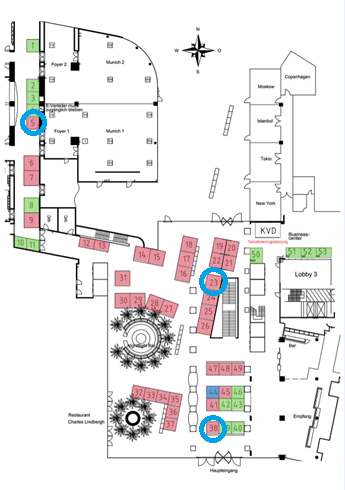
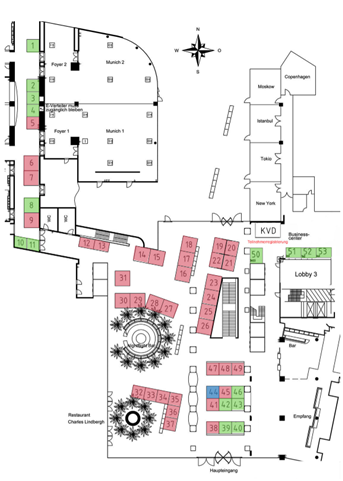
'new'

diff --git a/public/js/admin.js b/public/js/admin.js
@@ -115,11 +115,11 @@ $(document).ready(function () {
                 if (data.message) {
                     checkOrders();
                 } else {
-                    alert("Something went wrong.");
+                    // alert("Something went wrong.");
                 }
             },
             error: function () {
-                alert("Action could not be performed.");
+                // alert("Action could not be performed.");
             }
         });
     }

diff --git a/resources/views/pages/order.blade.php b/resources/views/pages/order.blade.php
@@ -13,7 +13,7 @@
     @endif
 
     <!-- First Step -->
-        <div class="row orderStep" id="step-1">
+        <div class="row" id="step-1">
             <div class="col-md-12">
                 <p class="font-weight-bold">Herzlich wilkommen zur Bestellung für Popcorn der smarten Popcornmaschine.
                     Bitte geben Sie zur Bestellung des kostenlosen Popcorns am Messestand des FIR folgende Informationen
@@ -30,24 +30,24 @@
                         <div class="dropdown-menu">
                             <a class="dropdown-item country-code" id="Germany" value="+49" style="cursor:pointer">
                                 <img src="{{ URL::asset('images/Germany.jpg') }}" alt="" style="width:30px">
-                                +49 Germany
+                                +49 Deutschland
                             </a>
                             <a class="dropdown-item country-code" id="UK" value="+44" style="cursor:pointer">
                                 <img src="{{ URL::asset('images/United Kingdom.png') }}" alt="" style="width:30px">
-                                +44 United Kingdom
+                                +44 England
                             </a>
                             <a class="dropdown-item country-code" id="France" value="+33" style="cursor:pointer">
                                 <img src="{{ URL::asset('images/France.png') }}" alt="" style="width:30px">
-                                +33 France
+                                +33 Frankreich
                             </a>
                             <a class="dropdown-item country-code" id="Belgium" value="+32" style="cursor:pointer">
                                 <img src="{{ URL::asset('images/Belgium.png') }}" alt="" style="width:30px">
-                                +32 Belgium
+                                +32 Belgien
                             </a>
                             <a class="dropdown-item country-code" id="Netherlands" value="+31"
                                style="cursor:pointer">
                                 <img src="{{ URL::asset('images/Netherlands.png') }}" alt="" style="width:30px">
-                                +31 Netherlands
+                                +31 Niderlande
                             </a>
                             <a class="dropdown-item country-code" id="USA" value="+1" style="cursor:pointer">
                                 <img src="{{ URL::asset('images/USA.png') }}" alt="" style="width:30px">
@@ -91,9 +91,9 @@
         <!-- Second Step -->
         <div class="row d-none" id="step-2">
             <div class="col-md-12">
-                <h2 class="font-weight-bold pl-0 my-4 font-fir">Abholung</h2>
-                <h4 class="font-fir">Prognostizierte Fertigstellungszeit: <span id="ETA"></span> Uhr</h4>
-                <img src="{{ URL::asset('images/map.png') }}" alt="" style="width:350px">
+                <h4 class="font-fir">Prognostizierte Fertigstellungszeit:</h4>
+                <h4 class="font-fir"><span id="ETA"></span> Uhr</h4>
+                <img src="{{ URL::asset('images/map.png') }}" alt="" style="width:300px">
             </div>
         </div>
 

diff --git a/resources/views/pages/stats.blade.php b/resources/views/pages/stats.blade.php
@@ -7,16 +7,27 @@
     </div>
     <h4 class="text-center font-fir mt-2">Text text</h4>
     <div class="text-center">
-        <div class="mx-auto mt-3 d-inline-block" style="width:600px;height:350px;position:relative;border: 2px solid #0067a4;">
+        <div class="mx-auto mt-3 d-inline-block"
+             style="width:600px;height:350px;position:relative;border: 2px solid #0067a4;">
             <canvas id="canvas2" width="600" height="350"></canvas>
         </div>
 
-        <div class="mx-auto mt-3 d-inline-block" style="width:600px;height:350px;position:relative;border: 2px solid #0067a4;">
+        <div class="mx-auto mt-3 d-inline-block"
+             style="width:600px;height:350px;position:relative;border: 2px solid #0067a4;">
             <canvas id="canvas3" width="600" height="350"></canvas>
         </div>
 
-        <div class="mx-auto mt-3 d-inline-block" style="width:600px;height:350px;position:relative;border: 2px solid #0067a4;">
+        <div class="mx-auto mt-3 d-inline-block"
+             style="width:600px;height:350px;position:relative;border: 2px solid #0067a4;">
             <canvas id="canvas4" width="600" height="350"></canvas>
         </div>
     </div>
+@endsection
+
+@section('includes')
+    <script>
+        setInterval(function () {
+            window.location = 'http://localhost/digpopcorn/public/dashboard';
+        }, 30000);
+    </script>
 @endsection

diff --git a/app/Http/Controllers/OrdersController.php b/app/Http/Controllers/OrdersController.php
@@ -8,6 +8,7 @@ use App\Order;
 use Carbon\Carbon;
 use Illuminate\Support\Facades\Mail;
 use Faker\Provider\DateTime;
+use App\Helpers\CustomHelpers;
 
 class OrdersController extends Controller {
 
@@ -71,17 +72,20 @@ class OrdersController extends Controller {
         $order->email = $email;
         $order->company = $company;
 
-        $orders = Order::where('status', 'RECEIVED')->get();
+        $orders = Order::whereDate('created_at', Carbon::today())->where('status', 'RECEIVED')->orderBy('created_at', 'desc')->take(15)->get();
 
         if (sizeof($orders) > 10) {
-            $seconds = 0;
+            $minutes = 0;
             $i = 0;
             foreach ($orders as $ord) {
-                $diff = strtotime($ord->updated_at) - strtotime($ord->created_at);
-                $seconds += $diff;
+                $diff = CustomHelpers::timeToMinutes($ord->ready_at) - CustomHelpers::timeToMinutes($ord->ordered_at);
+                if ($diff > 15) {
+                    continue;
+                }
+                $minutes += $diff;
                 $i++;
             }
-            $order->ETA = date('H:i', strtotime('now +' . (floor($seconds / $i)) . ' seconds'));
+            $order->ETA = date('H:i', strtotime('now +' . (floor($minutes / $i)) . ' minutes'));
         } else {
             $order->ETA = date('H:i', strtotime('now +3 minutes'));
         }

diff --git a/resources/views/inc/navbar-main.blade.php b/resources/views/inc/navbar-main.blade.php
@@ -3,17 +3,11 @@
         <button class="navbar-toggler" type="button" data-toggle="collapse" data-target="#navbarNavDropdown" aria-controls="navbarNavDropdown   " aria-expanded="false" aria-label="Toggle navigation">
             <span class="navbar-toggler-icon"></span>
         </button>
-        <a class="navbar-brand" href="{{ url('/') }}">Digitale Popcornmachine</a>
+        <a class="navbar-brand" href="{{ url('/') }}"><img src="{{ URL::asset('images/logo.png') }}" alt="" style="width:150px"></a>
         <div id="navbarNavDropdown" class="navbar-collapse collapse">
             <ul class="navbar-nav ml-auto">
                 <li class="nav-item">
                     <a class="nav-link" href="{{ url('/') }}">Popcorn bestellen</a>
-                </li>
-                <li class="nav-item">
-                    <a class="nav-link" href="{{ url('/impressum') }}">Impressum</a>
-                </li>
-                <li class="nav-item">
-                    <a class="nav-link" href="{{ url('/privacy-policy') }}">Privacy Policy</a>
                 </li>
             </ul>
         </div>

diff --git a/resources/views/inc/navbar-admin.blade.php b/resources/views/inc/navbar-admin.blade.php
@@ -13,12 +13,6 @@
                 <li class="nav-item">
                     <a class="nav-link" href="{{ url('/dashboard') }}">Dashboard</a>
                 </li>
-                <li class="nav-item">
-                    <a class="nav-link" href="{{ url('/impressum') }}">Impressum</a>
-                </li>
-                <li class="nav-item">
-                    <a class="nav-link" href="{{ url('/privacy-policy') }}">Privacy Policy</a>
-                </li>
                 @if(Auth::check())
                     <li class="nav-item">
                         <a class="nav-link" href="{{ route('logout') }}"

diff --git a/resources/views/layouts/monitor.blade.php b/resources/views/layouts/monitor.blade.php
@@ -31,6 +31,7 @@
     <img src="{{ URL::asset('images/logo.png') }}" style="width:300px;">
 </div>
 @yield('content')
+@yield('includes')
 <script type="text/javascript" src="{{ URL::asset('js/perfect-scrollbar.min.js') }}"></script>
 <script type="text/javascript" src="{{ URL::asset('js/monitor.js') }}"></script>
 <script type="text/javascript" src="{{ URL::asset('js/graphcontrol.js') }}"></script>

diff --git a/resources/views/pages/dashboard.blade.php b/resources/views/pages/dashboard.blade.php
@@ -43,3 +43,11 @@
         </div>
     </div>
 @endsection
+
+@section('includes')
+    <script>
+        setInterval(function () {
+            window.location = 'http://localhost/digpopcorn/public/stats';
+        }, 30000);
+    </script>
+@endsection
